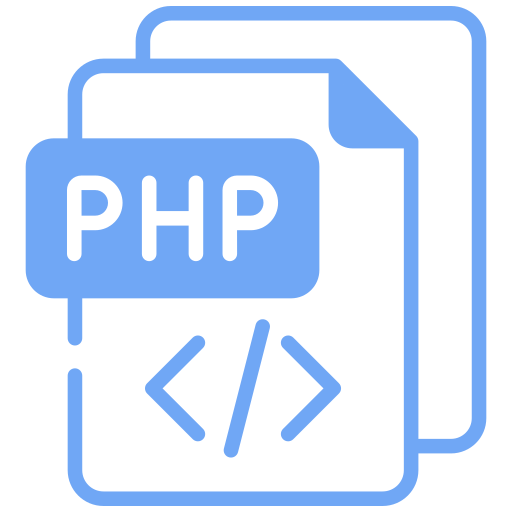
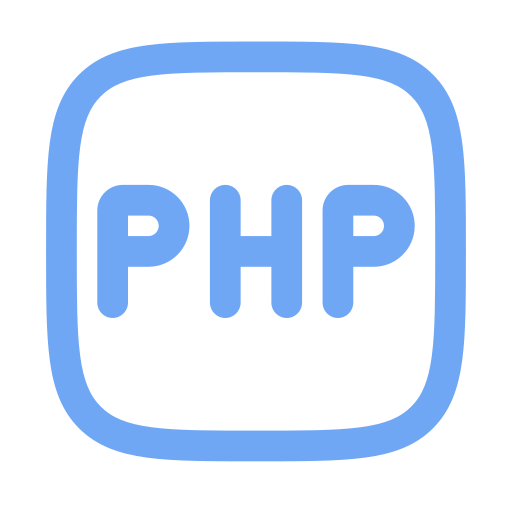
Modify experience page

diff --git a/src/app/(pages)/skills&experiences/page.tsx b/src/app/(pages)/skills&experiences/page.tsx
@@ -11,12 +11,57 @@ export default function SkillsExpPage() {
 
   const experience = [
     {
-      title: 'OIC - Reshipper',
+      title: 'Junior Data Analyst',
+      year: 'Nov 2024 -  Present',
+      description: 'Developed automated reporting solutions and performed efficient ETL (Extract, Transform, Load) processes. Focused on transforming raw data into actionable insights through custom report development, backend scripting, and data analysis.'
+    },
+    {
+      title: 'Backend Developer Intern at Pixel8 Web Solutions & Consultancy Inc.',
+      year: 'Jan 2024 -  2021',
+       description: 'Developed and tested APIs to handle success and error responses, and collaborated with the team to ensure seamless integration.'
+    },
+    {
+      title: 'OIC - Reshipper at Lazada',
       year: 'Mar 2020 - Jan 2021',
       description: 'Managed a team and tracked performance using Excel to maintain transactions and monitor KPIs.',
     },
   ];
   const frameworks = [
+     {
+      src: '/python.png',
+      alt: 'react',
+      title: 'Python',
+      description:
+        '',
+    },
+    {
+      src: '/airflow(4).png',
+      alt: 'react',
+      title: 'Apache Airflow',
+      description:
+        '',
+    },
+    {
+      src: '/java-script.png',
+      alt: 'react',
+      title: 'JS',
+      description:
+        '',
+    },
+    {
+      src: '/php.png',
+      alt: 'react',
+      title: 'Php',
+      description:
+        '',
+    },
+    {
+      src: '/sql.png',
+      alt: 'react',
+      title: 'MySQL',
+      description:
+        '',
+    },
     {
       src: '/excel.png',
       alt: 'react',
@@ -31,35 +76,21 @@ export default function SkillsExpPage() {
       description:
         '',
     },
-    {
-      src: '/sql.png',
-      alt: 'react',
-      title: 'MySQL',
-      description:
-        '',
-    },
-    {
-      src: '/postgre.png',
-      alt: 'react',
-      title: 'PostgreSQL',
-      description:
-        '',
-    },
-    {
-      src: '/python.png',
-      alt: 'react',
-      title: 'Python',
-      description:
-        '',
-    },
     
-    {
-      src: '/gpt.png',
-      alt: 'react',
-      title: 'Chat GPT',
-      description:
-        '',
-    },
+    // {
+    //   src: '/postgre.png',
+    //   alt: 'react',
+    //   title: 'PostgreSQL',
+    //   description:
+    //     '',
+    // },
+    // {
+    //   src: '/gpt.png',
+    //   alt: 'react',
+    //   title: 'Chat GPT',
+    //   description:
+    //     '',
+    // },
     {
       src: '/github.png',
       alt: 'react',
@@ -67,13 +98,13 @@ export default function SkillsExpPage() {
       description:
         '',
     },
-    {
-      src: '/vs.png',
-      alt: 'react',
-      title: 'Visual Studio Code',
-      description:
-        '',
-    },
+    // {
+    //   src: '/vs.png',
+    //   alt: 'react',
+    //   title: 'Visual Studio Code',
+    //   description:
+    //     '',
+    // },
   ];
 
   return (
@@ -99,35 +130,29 @@ export default function SkillsExpPage() {
                 ))}
               </div>
             </div>
-            <div className=''>
-              <DetailsTitle title='Tools' bg_color='white' />
-              <div className='grid grid-cols-4 gap-3 h-full mt-3'>
-                {frameworks.map((data, index) => (
+           <div className='grid grid-cols-4 gap-3 h-full mt-3'>
+              {frameworks.map((data, index) => (
+                <div
+                  key={index}
+                  className='bg-[#575757] rounded-md flex flex-col justify-center items-center p-3'
+                >
                   <div
-                    key={index}
-                    className=' bg-[#575757] rounded-md flex flex-col justify-center items-center p-3 transition-all transform hover:px-6 hover:scale-110 duration-300'>
-                    <div className='w-[25px] '>
-                      <Image
-                        src={data.src}
-                        width={50}
-                        height={50}
-                        alt='linkedin icon'
-                      />
-                    </div>
+                    className={`flex items-center justify-center ${
+                      data.title === 'Apache Airflow' ? 'w-[80px] h-[80px] group' : 'w-[25px] h-[80px] group'
+                    }`}
+                  >
+                    <Image
+                      src={data.src}
+                      width={data.title === 'Apache Airflow' ? 80 : 60}
+                      height={data.title === 'Apache Airflow' ? 80 : 60}
+                      alt={data.alt}
+                      className="object-contain transition-transform duration-300 group-hover:scale-125"
+                    />
                   </div>
-                ))}
-              </div>
-              {/* <div className='flex justify-between p-3 text-[11px]'>
-                <div></div>
-                <button
-                  disabled={isDisabled}
-                  className={`underline ${
-                    isDisabled ? 'text-gray-600' : 'text-white'
-                  }`}>
-                  See more...
-                </button>
-              </div> */}
+                </div>
+              ))}
             </div>
+
           </div>
         </div>
       </div>
